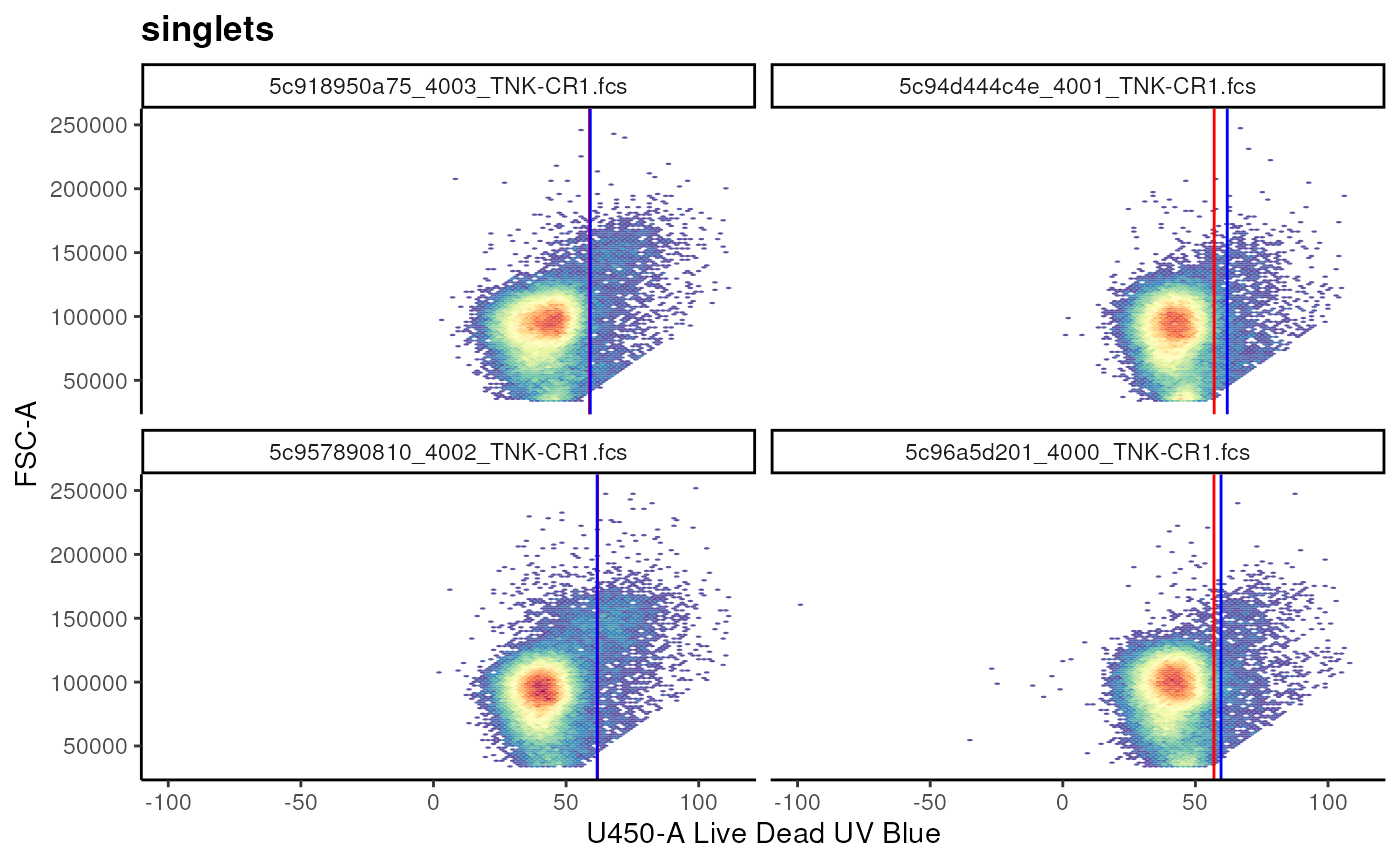
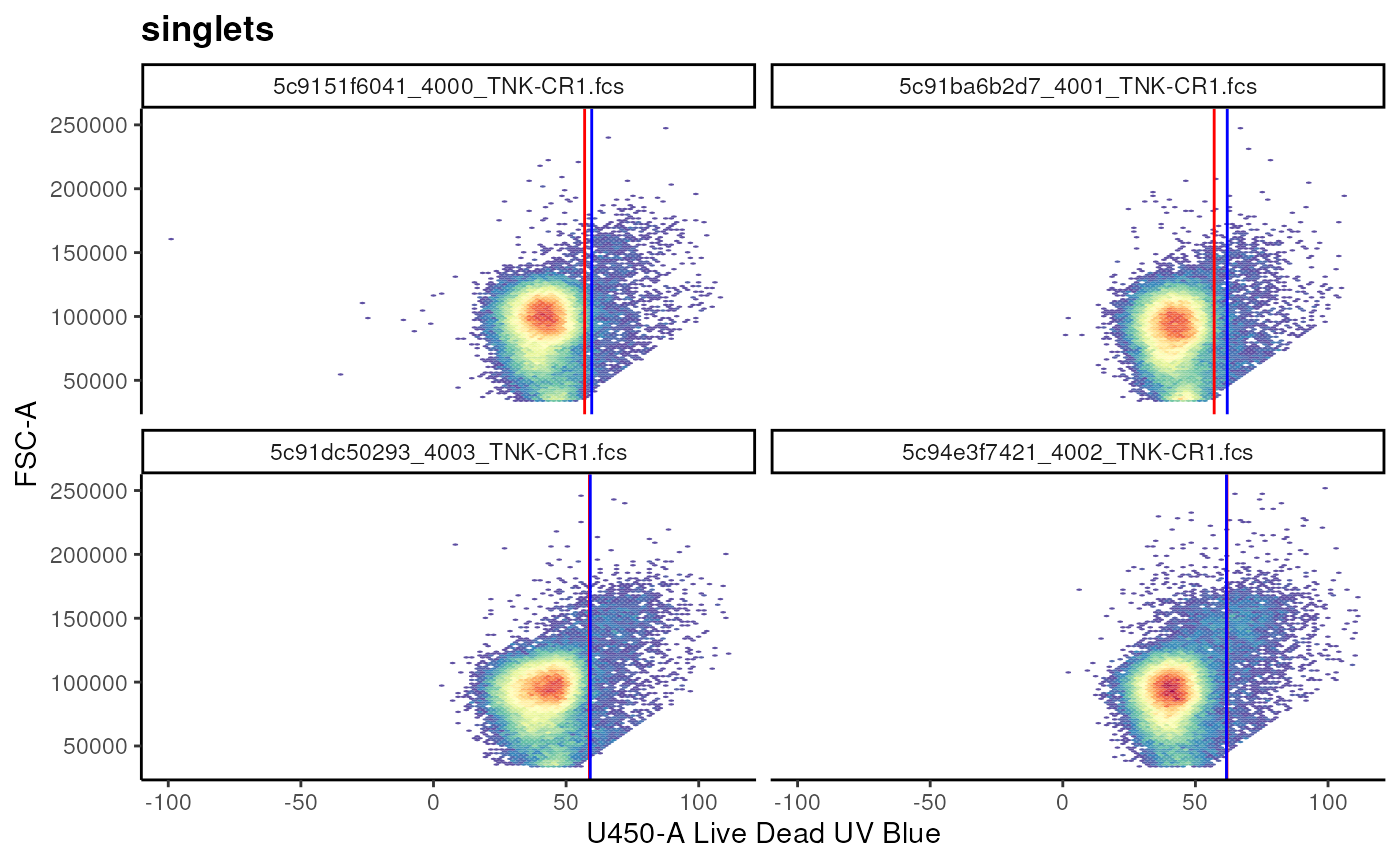
Deploying to gh-pages from @ OzetteTech/cytoverse-bioc-2023@9a984418681fa99554b914ad93c36080d3bac1e3 🚀

diff --git a/articles/1_Import_fcs.html b/articles/1_Import_fcs.html
@@ -171,7 +171,7 @@ examine it with
 <span></span>
 <span><span class="co"># a cytoframe object</span></span>
 <span><span class="va">cf</span></span></code></pre></div>
-<pre><code><span><span class="co">## cytoframe object '5c96a5d201_4000_TNK-CR1.fcs'</span></span>
+<pre><code><span><span class="co">## cytoframe object '5c9151f6041_4000_TNK-CR1.fcs'</span></span>
 <span><span class="co">## with 102015 cells and 33 observables:</span></span>
 <span><span class="co">##                   name            desc     range  minRange  maxRange</span></span>
 <span><span class="co">## $P1              FSC-A              NA    262143    0.0000    262143</span></span>
@@ -384,7 +384,7 @@ expression matrix <code>exprs(cf)</code> as well as the columns of the
 <code class="sourceCode R"><span><span class="co"># subset cytorame by column</span></span>
 <span><span class="va">s_cf</span> <span class="op">&lt;-</span> <span class="va">cf</span><span class="op">[</span>,<span class="va">marker_cd4</span><span class="op">[</span>,<span class="st">"name"</span><span class="op">]</span><span class="op">]</span></span>
 <span><span class="va">s_cf</span></span></code></pre></div>
-<pre><code><span><span class="co">## cytoframe object '5c96a5d201_4000_TNK-CR1.fcs'</span></span>
+<pre><code><span><span class="co">## cytoframe object '5c9151f6041_4000_TNK-CR1.fcs'</span></span>
 <span><span class="co">## with 102015 cells and 1 observables:</span></span>
 <span><span class="co">##        name       desc     range  minRange  maxRange</span></span>
 <span><span class="co">## $P23 U785-A CD4 BUV805    262143  -80.5002    262143</span></span>
@@ -395,7 +395,7 @@ expression matrix <code>exprs(cf)</code> as well as the columns of the
 <code class="sourceCode R"><span><span class="co"># subset cytoframe by row</span></span>
 <span><span class="va">s2_cf</span> <span class="op">&lt;-</span> <span class="va">cf</span><span class="op">[</span><span class="fl">1</span><span class="op">:</span><span class="fl">100</span>,<span class="op">]</span></span>
 <span><span class="va">s2_cf</span></span></code></pre></div>
-<pre><code><span><span class="co">## cytoframe object '5c96a5d201_4000_TNK-CR1.fcs'</span></span>
+<pre><code><span><span class="co">## cytoframe object '5c9151f6041_4000_TNK-CR1.fcs'</span></span>
 <span><span class="co">## with 100 cells and 33 observables:</span></span>
 <span><span class="co">##                   name            desc     range  minRange  maxRange</span></span>
 <span><span class="co">## $P1              FSC-A              NA    262143    0.0000    262143</span></span>
@@ -477,7 +477,7 @@ these operations provide a new view of the data without creating a
 <code class="sourceCode R"><span><span class="co"># manipulating expression values</span></span>
 <span><span class="co"># notice the data range </span></span>
 <span><span class="va">s_cf</span></span></code></pre></div>
-<pre><code><span><span class="co">## cytoframe object '5c96a5d201_4000_TNK-CR1.fcs'</span></span>
+<pre><code><span><span class="co">## cytoframe object '5c9151f6041_4000_TNK-CR1.fcs'</span></span>
 <span><span class="co">## with 150 cells and 33 observables:</span></span>
 <span><span class="co">##                   name            desc     range  minRange  maxRange</span></span>
 <span><span class="co">## $P1              FSC-A              NA    262143    0.0000    262143</span></span>
@@ -502,7 +502,7 @@ these operations provide a new view of the data without creating a
 <span></span>
 <span><span class="co"># notice the data range after transformation</span></span>
 <span><span class="va">s_cf</span></span></code></pre></div>
-<pre><code><span><span class="co">## cytoframe object '5c96a5d201_4000_TNK-CR1.fcs'</span></span>
+<pre><code><span><span class="co">## cytoframe object '5c9151f6041_4000_TNK-CR1.fcs'</span></span>
 <span><span class="co">## with 150 cells and 33 observables:</span></span>
 <span><span class="co">##                   name            desc     range  minRange  maxRange</span></span>
 <span><span class="co">## $P1              FSC-A              NA    262143    0.0000    262143</span></span>
@@ -580,12 +580,12 @@ the <code>sampleNames</code> of the <code>cytoset</code>.</p>
 <code class="sourceCode R"><span><span class="co"># prior to providing metadata</span></span>
 <span><span class="fu"><a href="https://rdrr.io/pkg/Biobase/man/phenoData.html" class="external-link">pData</a></span><span class="op">(</span><span class="va">cs</span><span class="op">)</span></span></code></pre></div>
 <pre><code><span><span class="co">##                                                      name</span></span>
-<span><span class="co">## 5c955c1f258_4000_BDC-CR1.fcs 5c955c1f258_4000_BDC-CR1.fcs</span></span>
-<span><span class="co">## 5c96a5d201_4000_TNK-CR1.fcs   5c96a5d201_4000_TNK-CR1.fcs</span></span>
-<span><span class="co">## 5c91a318625_4001_BDC-CR1.fcs 5c91a318625_4001_BDC-CR1.fcs</span></span>
-<span><span class="co">## 5c94d444c4e_4001_TNK-CR1.fcs 5c94d444c4e_4001_TNK-CR1.fcs</span></span>
-<span><span class="co">## 5c957890810_4002_TNK-CR1.fcs 5c957890810_4002_TNK-CR1.fcs</span></span>
-<span><span class="co">## 5c918950a75_4003_TNK-CR1.fcs 5c918950a75_4003_TNK-CR1.fcs</span></span></code></pre>
+<span><span class="co">## 5c948c23c8_4000_BDC-CR1.fcs   5c948c23c8_4000_BDC-CR1.fcs</span></span>
+<span><span class="co">## 5c9151f6041_4000_TNK-CR1.fcs 5c9151f6041_4000_TNK-CR1.fcs</span></span>
+<span><span class="co">## 5c928cfb6cf_4001_BDC-CR1.fcs 5c928cfb6cf_4001_BDC-CR1.fcs</span></span>
+<span><span class="co">## 5c91ba6b2d7_4001_TNK-CR1.fcs 5c91ba6b2d7_4001_TNK-CR1.fcs</span></span>
+<span><span class="co">## 5c94e3f7421_4002_TNK-CR1.fcs 5c94e3f7421_4002_TNK-CR1.fcs</span></span>
+<span><span class="co">## 5c91dc50293_4003_TNK-CR1.fcs 5c91dc50293_4003_TNK-CR1.fcs</span></span></code></pre>
 <div class="sourceCode" id="cb39"><pre class="downlit sourceCode r">
 <code class="sourceCode R"><span><span class="co"># create metadata</span></span>
 <span><span class="va">metadata</span> <span class="op">&lt;-</span> <span class="fu"><a href="https://rdrr.io/r/base/data.frame.html" class="external-link">data.frame</a></span><span class="op">(</span>Treatment <span class="op">=</span> <span class="fu"><a href="https://rdrr.io/r/base/sample.html" class="external-link">sample</a></span><span class="op">(</span><span class="fu"><a href="https://rdrr.io/r/base/c.html" class="external-link">c</a></span><span class="op">(</span><span class="st">"Untreated"</span>,<span class="st">"Treated"</span><span class="op">)</span>,<span class="fu"><a href="https://rdrr.io/r/base/length.html" class="external-link">length</a></span><span class="op">(</span><span class="va">cs</span><span class="op">)</span>, replace <span class="op">=</span> <span class="cn">TRUE</span><span class="op">)</span>,</span>
@@ -603,12 +603,12 @@ the <code>sampleNames</code> of the <code>cytoset</code>.</p>
 <span><span class="fu"><a href="https://rdrr.io/pkg/Biobase/man/phenoData.html" class="external-link">pData</a></span><span class="op">(</span><span class="va">cs</span><span class="op">)</span> <span class="op">&lt;-</span> <span class="va">metadata</span></span>
 <span><span class="fu"><a href="https://rdrr.io/pkg/Biobase/man/phenoData.html" class="external-link">pData</a></span><span class="op">(</span><span class="va">cs</span><span class="op">)</span></span></code></pre></div>
 <pre><code><span><span class="co">##                              Treatment         panel</span></span>
-<span><span class="co">## 5c955c1f258_4000_BDC-CR1.fcs   Treated Myeloid Panel</span></span>
-<span><span class="co">## 5c96a5d201_4000_TNK-CR1.fcs    Treated  T Cell Panel</span></span>
-<span><span class="co">## 5c91a318625_4001_BDC-CR1.fcs   Treated Myeloid Panel</span></span>
-<span><span class="co">## 5c94d444c4e_4001_TNK-CR1.fcs   Treated  T Cell Panel</span></span>
-<span><span class="co">## 5c957890810_4002_TNK-CR1.fcs Untreated  T Cell Panel</span></span>
-<span><span class="co">## 5c918950a75_4003_TNK-CR1.fcs   Treated  T Cell Panel</span></span></code></pre>
+<span><span class="co">## 5c948c23c8_4000_BDC-CR1.fcs  Untreated Myeloid Panel</span></span>
+<span><span class="co">## 5c9151f6041_4000_TNK-CR1.fcs   Treated  T Cell Panel</span></span>
+<span><span class="co">## 5c928cfb6cf_4001_BDC-CR1.fcs   Treated Myeloid Panel</span></span>
+<span><span class="co">## 5c91ba6b2d7_4001_TNK-CR1.fcs Untreated  T Cell Panel</span></span>
+<span><span class="co">## 5c94e3f7421_4002_TNK-CR1.fcs   Treated  T Cell Panel</span></span>
+<span><span class="co">## 5c91dc50293_4003_TNK-CR1.fcs   Treated  T Cell Panel</span></span></code></pre>
 <p>The benefit of having metadata is that we can use many of the
 sub-setting operations in a metadata specific manner.</p>
 <p>This is much more convenient than going back and forth between the
@@ -625,8 +625,8 @@ full set of files.</p>
 <div class="sourceCode" id="cb46"><pre class="downlit sourceCode r">
 <code class="sourceCode R"><span><span class="fu"><a href="https://rdrr.io/pkg/Biobase/man/phenoData.html" class="external-link">pData</a></span><span class="op">(</span><span class="va">cs_myeloid</span><span class="op">)</span></span></code></pre></div>
 <pre><code><span><span class="co">##                              Treatment         panel</span></span>
-<span><span class="co">## 5c955c1f258_4000_BDC-CR1.fcs   Treated Myeloid Panel</span></span>
-<span><span class="co">## 5c91a318625_4001_BDC-CR1.fcs   Treated Myeloid Panel</span></span></code></pre>
+<span><span class="co">## 5c948c23c8_4000_BDC-CR1.fcs  Untreated Myeloid Panel</span></span>
+<span><span class="co">## 5c928cfb6cf_4001_BDC-CR1.fcs   Treated Myeloid Panel</span></span></code></pre>
 <p>Many of the sub-setting operation for <code>cytoframe</code> are also
 applicable for <code>cytoset</code>. Similar to <code>cytoframe</code>
 sub-setting operations only create a new “view” of the data. For a
@@ -734,12 +734,12 @@ however, is that the output results in a single array like object.</p>
 <span><span class="va">get_all_nrow</span> <span class="op">&lt;-</span> <span class="fu"><a href="https://rdrr.io/pkg/flowCore/man/fsApply.html" class="external-link">fsApply</a></span><span class="op">(</span><span class="va">cs</span>, <span class="va">nrow</span><span class="op">)</span></span>
 <span><span class="va">get_all_nrow</span></span></code></pre></div>
 <pre><code><span><span class="co">##                                [,1]</span></span>
-<span><span class="co">## 5c955c1f258_4000_BDC-CR1.fcs 912254</span></span>
-<span><span class="co">## 5c96a5d201_4000_TNK-CR1.fcs  102015</span></span>
-<span><span class="co">## 5c91a318625_4001_BDC-CR1.fcs 924474</span></span>
-<span><span class="co">## 5c94d444c4e_4001_TNK-CR1.fcs  92703</span></span>
-<span><span class="co">## 5c957890810_4002_TNK-CR1.fcs 372224</span></span>
-<span><span class="co">## 5c918950a75_4003_TNK-CR1.fcs 146150</span></span></code></pre>
+<span><span class="co">## 5c948c23c8_4000_BDC-CR1.fcs  912254</span></span>
+<span><span class="co">## 5c9151f6041_4000_TNK-CR1.fcs 102015</span></span>
+<span><span class="co">## 5c928cfb6cf_4001_BDC-CR1.fcs 924474</span></span>
+<span><span class="co">## 5c91ba6b2d7_4001_TNK-CR1.fcs  92703</span></span>
+<span><span class="co">## 5c94e3f7421_4002_TNK-CR1.fcs 372224</span></span>
+<span><span class="co">## 5c91dc50293_4003_TNK-CR1.fcs 146150</span></span></code></pre>
 <div class="section level3">
 <h3 id="exercises">Exercises<a class="anchor" aria-label="anchor" href="#exercises"></a>
 </h3>
